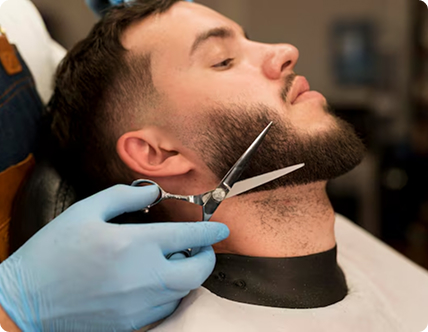
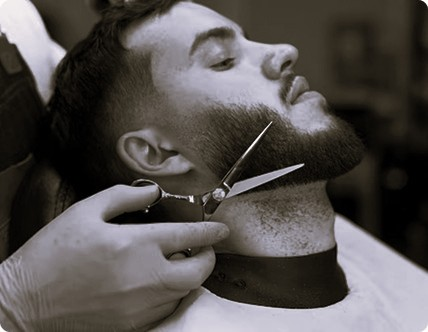
Rediseño: cards de servicios

diff --git a/index.html b/index.html
@@ -48,19 +48,16 @@
             <article class="card">
                 <img class="card__imagen" src="assets/img/tarjeta-corte.jpg" alt="Corte Clasico">
                 <h3 class ="card__titulo">Corte Clasico</h3>
-                <p>Un corte preciso adaptado a tu estilo y tipo de cabello.</p>
             </article>
             
             <article class="card">
                 <img class="card__imagen" src="assets/img/tarjeta-barba.jpg" alt="Arreglo de Barba">
                 <h3 class ="card__titulo">Arreglo de barba</h3>
-                <p>Perfilado y cuidado de barba con productos premium.</p>
             </article>
 
             <article class="card">
                 <img class="card__imagen" src="assets/img/tarjeta-facial.jpg" alt="Limpieza Facial">
                 <h3 class ="card__titulo">Limpieza facial</h3>
-                <p>Tratamiento facial para reavilitar y limpiar tu piel.</p>
             </article>
         </section>
     </main>

diff --git a/css/box-model.css b/css/box-model.css
@@ -140,11 +140,13 @@ footer {
 .card {
     flex: 1 1 280px;
     max-width: 306px;
-    padding: var(--espaciado-s);
+    padding: 0;
     background-color: var(--card-fondo);
-    border: 1px solid rgba(0, 0, 0, 0.1);
     border-radius: 10px;
     box-shadow: var(--sombra-card);
+    height: min(340px, 100vw);
+    overflow: hidden;
+    position: relative;
     transition: transform 0.2s, box-shadow 0.2s;
 
     &:hover {
@@ -156,15 +158,18 @@ footer {
 .card__imagen {
     display: block;
     width: 100%;
-    height: min(230px, 50vw);
-    margin-bottom: 12px;
+    height: 100%;
     object-fit: cover;
-    border-radius: 4px;
 }
 
 .card__titulo {
-    margin: 4px 0;
+    margin: 0;
     font-size: 1.1rem;
+    position: absolute;
+    left: var(--espaciado-c);
+    bottom: var(--espaciado-c);
+    z-index: 1;
+    color: var(--color-blanco);
 }
 
 .info-barberia {
